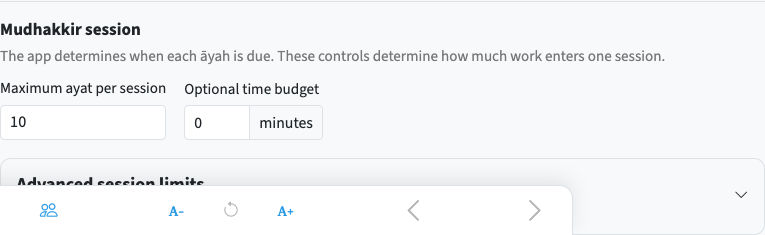
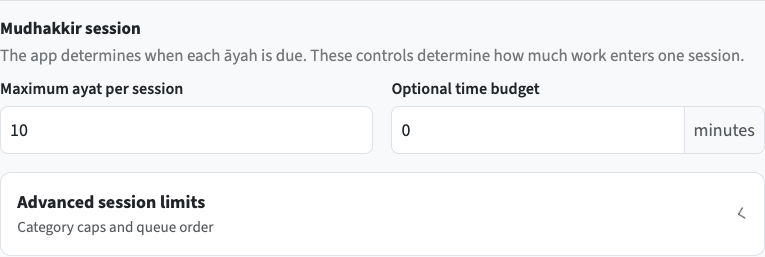
Unify expanded Settings panels and upgrade Bootstrap to 5.3.9

diff --git a/public/static/css/settings-beta.css b/public/static/css/settings-beta.css
@@ -105,7 +105,80 @@
 .settings-filter-status:empty { margin: 0; }
 .settings-beta .settings-filter-miss, .settings-beta-index a[hidden] { display: none !important; }
 
-.settings-beta :is(#settings-reciter-list, #settings-translation-list, #settings-tafsir-list) .form-check-input:checked {
+.settings-beta .form-switch .form-check-input:checked {
   background-color: var(--ux-accent);
   border-color: var(--ux-accent);
+}
+
+.settings-beta-fields { padding: 1rem; }
+.settings-panel-header {
+  display: flex;
+  align-items: center;
+  justify-content: space-between;
+  flex-wrap: wrap;
+  gap: .5rem 1rem;
+  margin-bottom: .85rem;
+}
+.settings-panel-header:only-child { margin-bottom: 0; }
+.settings-panel-header p, .settings-beta-fields p.small {
+  font-size: .94rem;
+  line-height: 1.45;
+}
+.settings-beta-fields :is(.settings-fsrs-card, .settings-payment-balance, .memorization-advanced-settings) {
+  background: var(--ux-surface);
+  border: 1px solid var(--ux-border);
+  border-radius: .6rem;
+  padding: .9rem;
+}
+.settings-field-grid {
+  display: grid;
+  grid-template-columns: repeat(auto-fit, minmax(min(13rem, 100%), 1fr));
+  align-items: end;
+  gap: .75rem 1rem;
+}
+.settings-beta-fields .form-label { min-width: 0; max-width: 100%; }
+.settings-beta-fields .form-label > .small { font-size: .9rem; font-weight: 600; }
+.settings-beta-fields :is(.form-select, .form-control, .input-group-text) {
+  min-height: 2.65rem;
+  padding-block: .45rem;
+  border-color: var(--ux-border);
+  border-radius: .45rem;
+  font: 400 1rem/1.4 var(--ux-font-ui);
+}
+.settings-beta-fields .input-group > input { border-start-end-radius: 0; border-end-end-radius: 0; }
+.settings-beta-fields .input-group-text { color: var(--ux-muted); border-start-start-radius: 0; border-end-start-radius: 0; }
+.settings-beta-fields :is(.form-select, .form-control):focus { border-color: var(--ux-accent); box-shadow: none; }
+.settings-beta-fields .form-switch .form-check-input {
+  width: 2rem;
+  height: 1.12rem;
+  cursor: pointer;
+}
+.settings-beta-fields .form-switch .form-check-input:disabled { cursor: default; }
+.settings-beta-fields .settings-preference-list-mini {
+  gap: .6rem;
+  grid-template-columns: repeat(auto-fill, minmax(min(8.5rem, 100%), 1fr));
+}
+.settings-beta-fields .settings-preference-tile { min-height: 5rem; padding: .6rem; border-radius: .6rem; }
+.settings-beta-fields .settings-preference-tile .translation-setting-title { font-size: .95rem; line-height: 1.2; font-weight: 600; }
+.settings-beta-fields .settings-subsection-toggle { min-height: 2.5rem; justify-content: space-between; }
+.settings-beta-fields .settings-subsection-toggle .bi { order: 1; color: var(--ux-accent); font-size: .85rem; transform: rotate(180deg); }
+.settings-beta-fields .settings-subsection-toggle[aria-expanded="false"] .bi { transform: none; }
+.settings-beta-fields [data-notebook-drive-panel]:not([hidden]) {
+  display: flex;
+  align-items: center;
+  flex-wrap: wrap;
+  gap: .5rem;
+}
+.settings-beta-fields [data-notebook-drive-message] { flex: 1 1 14rem; }
+.settings-beta-fields [data-notebook-drive-panel] .ux-text-action { text-decoration: none; }
+.settings-beta-fields [data-notebook-drive-panel] [hidden] { display: none; }
+.settings-beta-fields :is(.settings-payment-auto, [data-community-drive-controls]) {
+  padding-top: .85rem;
+  border-top: 1px solid var(--ux-border);
+}
+.settings-beta-fields .settings-payment-panel { gap: 1rem; }
+.settings-beta-fields .settings-payment-panel select { min-width: 0; }
+@media (max-width: 700px) {
+  .settings-panel-header { flex-direction: column; align-items: flex-start; }
+  .settings-beta-fields { padding: .85rem .75rem; }
 }

diff --git a/docs/design-system/library.html b/docs/design-system/library.html
@@ -59,7 +59,7 @@
   <section id="feedback"><h2>Actions &amp; feedback</h2>
     <div class="grid">
       <article><h3>Settings action hierarchy</h3><dl><dt>Midnight primary</dt><dd>Use the gradient for the main action in a task, such as saving a schedule, connecting Drive, buying points, or saving auto-recharge.</dd><dt>Midnight secondary</dt><dd>Use pale indigo for progress, timing personalization, email preferences, Drive import, and payment management.</dd><dt>Text and selection controls</dt><dd>Keep “Enable all”, folder links, and disconnect lightweight. View segments, switches, favorites, and preview cards communicate selection through their own states.</dd></dl></article>
-      <article><h3>Grouped edits &amp; advanced limits</h3><img src="settings/session.png" alt="Review session limits and the advanced session limits disclosure"><p>Show common fields first. Put category caps and queue order behind a named disclosure. Use the <a href="buttons.html#midnight">Midnight indigo</a> gradient for Save and the pale indigo secondary action for Progress. A single save action applies the related fields together and reports the result near the form.</p></article>
+      <article><h3>Grouped edits &amp; advanced limits</h3><img src="settings/session.png" alt="Review session limits and the advanced session limits disclosure"><p>Use the same field height, label weight, and focus treatment for review and billing inputs. Let the grid follow the available panel width. Show common fields first. Put category caps and queue order behind a named disclosure. Use the <a href="buttons.html#midnight">Midnight indigo</a> gradient for Save and the pale indigo secondary action for Progress. A single save action applies the related fields together and reports the result near the form.</p></article>
       <article><h3>Saving a preference</h3><dl><dt>Ready</dt><dd>Show the saved choice or enabled count in the collapsed row.</dd><dt>Saving</dt><dd>For an immediate choice such as Quran script, show the pending state and disable the choice while the request is in flight.</dd><dt>Saved</dt><dd>Update the row summary and confirm the change beside the control.</dd><dt>Failed</dt><dd>Restore the saved selection or switches. Keep a failed form draft available for retry and exclude it from unrelated saves.</dd><dt>Signed out</dt><dd>Explain when sign-in is needed. Keep account-backed writes unavailable.</dd></dl></article>
     </div>
   </section>

diff --git a/spec/community.mysql.spec.js b/spec/community.mysql.spec.js
@@ -906,7 +906,7 @@ suite('Community publication, privacy, subscriptions, discussion and moderation'
       await context.route('**/*', route=> {
         const request=route.request(), url=request.url();
         if (url.includes('/static/js/script.js')) return route.fulfill({contentType:'application/javascript',body:headerOffsetHelper+';new ResizeObserver(()=>updateFixedHeaderOffset()).observe(document.querySelector(".site-navbar"));updateFixedHeaderOffset();'});
-        if (request.resourceType()==='script' && !url.includes('/static/js/community.js') && !url.includes('/static/js/community-media.js') && !url.includes('/bootstrap@5.3.1/dist/js/bootstrap.bundle.min.js')) return route.abort();
+        if (request.resourceType()==='script' && !url.includes('/static/js/community.js') && !url.includes('/static/js/community-media.js') && !url.includes('/bootstrap@5.3.9/dist/js/bootstrap.bundle.min.js')) return route.abort();
         if (url.includes('avatar.test/missing')) return route.fulfill({status:404,body:''});
         if (url.includes('avatar.test/') || url.includes('gravatar.com/avatar/')) return route.fulfill({contentType:'image/svg+xml',body:'<svg xmlns="http://www.w3.org/2000/svg" width="48" height="48"><circle cx="24" cy="24" r="24" fill="#2c9be5"/></svg>'});
         if (request.resourceType()==='image' && !url.includes('/static/') && !url.includes('/community/media/')) return route.abort();
